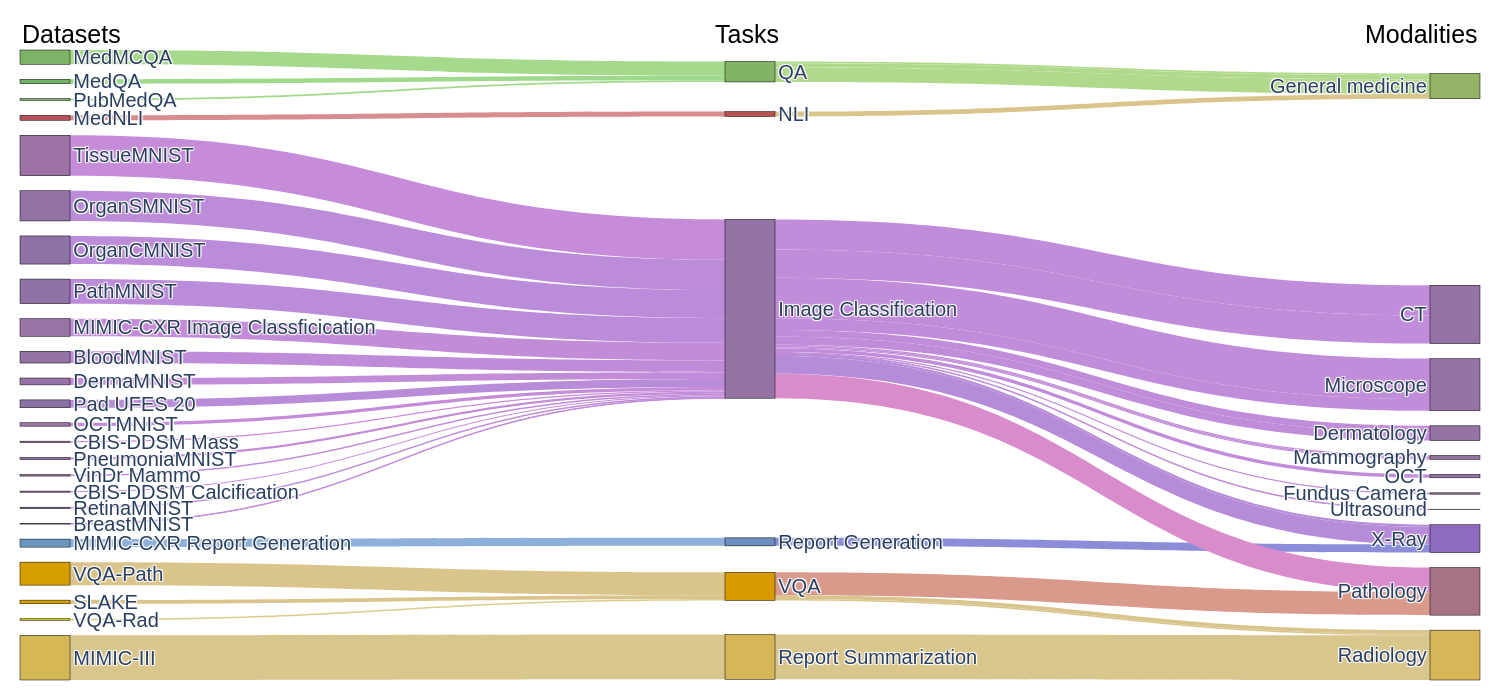
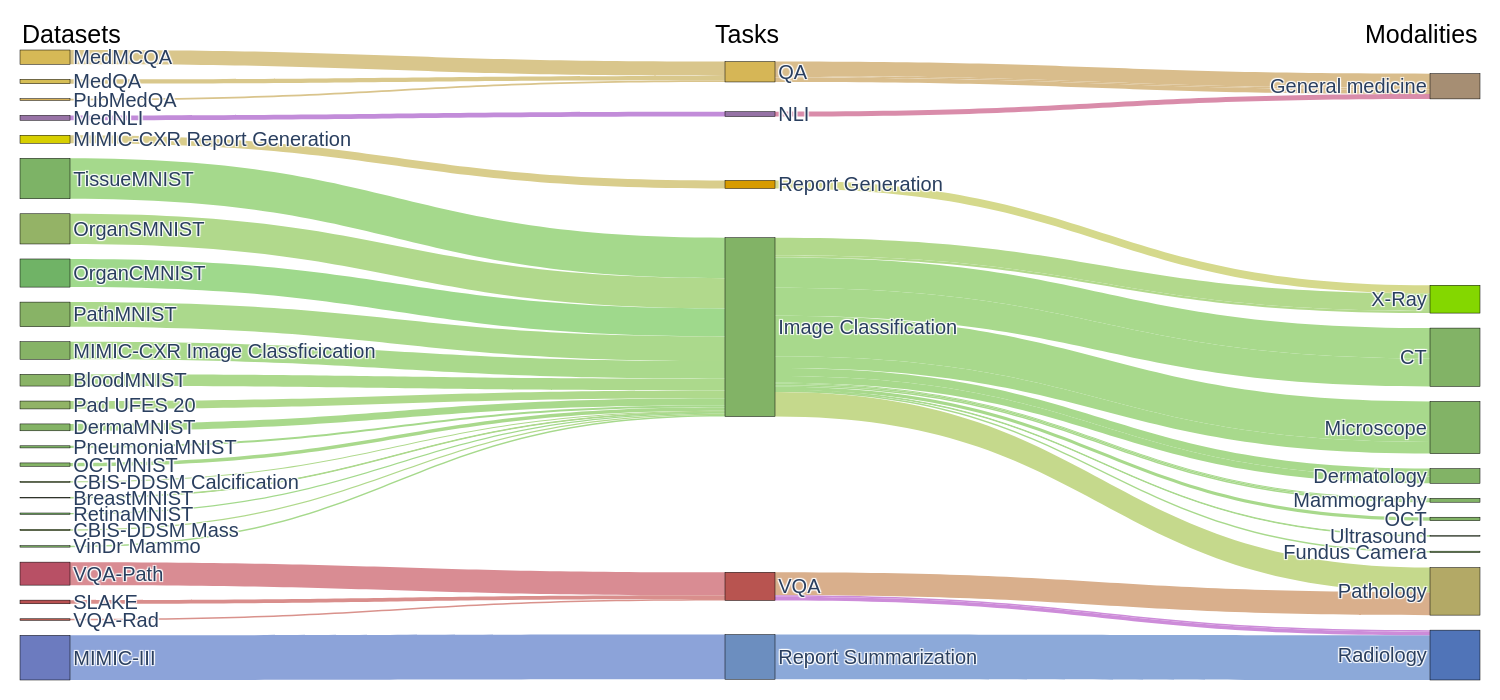
Github action tests

diff --git a/multimedeval/visualization.py b/multimedeval/visualization.py
@@ -8,7 +8,7 @@ class BenchmarkVisualizer:
     def __init__(self, datasets: list[Benchmark]) -> None:
         self.datasets = datasets
 
-        self.folderName = "figures"
+        self.folderName = "visualizations"
 
         # Create the folder if it doesn't exist
         Path(self.folderName).mkdir(parents=True, exist_ok=True)
@@ -278,72 +278,6 @@ class BenchmarkVisualizer:
         # Increase font size of the labels
 
         fig.write_image(Path(self.folderName, "sankey.png"), scale=1.0, width=1500, height=700)
-
-    def sankeyD3Blocks(self):
-        from d3blocks import D3Blocks
-        import random
-        from colour import Color
-
-        print("======================= Creating sankey diagram with D3Blocks =======================")
-
-        dfAsList = []
-        tasks = set()
-        modalities = set()
-
-        for dataset in self.datasets:
-            task = dataset.task.replace("_", " ")
-            # Add the link between the dataset and the task
-            dfAsList.append((dataset.taskName, task, len(dataset)))
-
-            # Add the link between the task and the modality
-            dfAsList.append((task, dataset.modality, len(dataset)))
-
-            tasks.add(task)
-            modalities.add(dataset.modality)
-
-        # Take colors from the G10 palette
-        nameToColor = {}
-        for idx, task in enumerate(tasks):
-            nameToColor[task] = (idx / len(tasks) + 0.5) % 1
-
-        for dataset in self.datasets:
-            # Sample a color based on the task of the dataset
-            taskColor = nameToColor[dataset.task.replace("_", " ")]
-
-            # Sample small variation of the color for the dataset
-            rangeColor = 1 / len(tasks) / 4
-            datasetColor = (taskColor + random.uniform(-rangeColor, rangeColor)) % 1
-            nameToColor[dataset.taskName] = datasetColor
-
-        for idx, modality in enumerate(modalities):
-            # Get all the tasks that have this modality
-            taskColors = []
-            taskWeights = []
-            for dataset in self.datasets:
-                if dataset.modality == modality:
-                    taskColors.append(nameToColor[dataset.task])
-                    taskWeights.append(len(dataset))
-
-            weighted_mean_angle = self._averageCircular(taskColors, taskWeights)
-
-            nameToColor[modality] = weighted_mean_angle
-
-        # Convert every color to hex
-        for name, color in nameToColor.items():
-            tempColor = Color(hsl=(color, 0.5, 0.4)).hex
-            nameToColor[name] = tempColor
-
-        df = pd.DataFrame(dfAsList, columns=["source", "target", "weight"])
-        print(df)
-
-        d3 = D3Blocks(chart="Sankey", frame=True)
-        
-        # Change the font
-        d3.set_node_properties(df, width=30, color=nameToColor)
-
-        d3.set_edge_properties(df, color="source-target", opacity=0.8)
-
-        d3.show(filepath="tempSankey.html", figsize=(1000, 700))
 
     def _importPlotly(self):
         try:

diff --git a/tests/test_loading_all.py b/tests/test_loading_all.py
@@ -73,7 +73,7 @@ class TestLoadingAll:
     def test_running_reportcomparison(self):
         evalParams = EvalParams(batch_size=128, fewshot=True, num_workers=0)
 
-        tasks = ["MIMIC-CXR Report Generation", "MIMIC-III"]
+        tasks = ["MIMIC-CXR Report Generation"]
         try:
             results = self.engine.eval(tasks, batcher, evalParams=evalParams)
         except:
@@ -82,35 +82,35 @@ class TestLoadingAll:
         for task in tasks:
             assert task in results
 
-    # @pytest.mark.order(7)
-    # def test_running_image_classification(self):
-    #     evalParams = EvalParams(batch_size=128, fewshot=True, num_workers=0)
+    @pytest.mark.order(7)
+    def test_running_image_classification(self):
+        evalParams = EvalParams(batch_size=128, fewshot=True, num_workers=0)
 
-    #     tasks = [
-    #         "MIMIC-CXR Image Classficication",
-    #         "VinDr Mammo",
-    #         "Pad UFES 20",
-    #         "CBIS-DDSM Mass",
-    #         "CBIS-DDSM Calcification",
-    #         "OCTMNIST",
-    #         "PathMNIST",
-    #         "PneumoniaMNIST",
-    #         "RetinaMNIST",
-    #         "BloodMNIST" "OrganCMNIST",
-    #         "DermaMNIST",
-    #         "BreastMNIST",
-    #         "TissueMNIST",
-    #         "OrganSMNIST",
-    #     ]
-    #     try:
-    #         results = self.engine.eval(
-    #             tasks,
-    #             batcher,
-    #             evalParams=evalParams,
-    #         )
-    #     except:
-    #         assert False
+        tasks = [
+            "MIMIC-CXR Image Classficication",
+            # "VinDr Mammo",
+            "Pad UFES 20",
+            "CBIS-DDSM Mass",
+            # "CBIS-DDSM Calcification",
+            "OCTMNIST",
+            # "PathMNIST",
+            # "PneumoniaMNIST",
+            # "RetinaMNIST",
+            # "BloodMNIST" "OrganCMNIST",
+            # "DermaMNIST",
+            # "BreastMNIST",
+            # "TissueMNIST",
+            # "OrganSMNIST",
+        ]
+        try:
+            results = self.engine.eval(
+                tasks,
+                batcher,
+                evalParams=evalParams,
+            )
+        except:
+            assert False
 
-    #     for task in tasks:
-    #         assert task in results
+        for task in tasks:
+            assert task in results
 

diff --git a/tests/test_image_classification.py b/tests/test_image_classification.py
@@ -1,11 +1,15 @@
 from multimedeval import MultiMedEval, SetupParams, EvalParams
 import json
+import os
+import pytest
 
 
 def batcher(prompts):
     return ["Dummy answer" for _ in range(len(prompts))]
 
+IN_GITHUB_ACTIONS = os.getenv("GITHUB_ACTIONS") == "true"
 
+@pytest.mark.skipif(IN_GITHUB_ACTIONS, reason="Test doesn't work in Github Actions.")
 def test_image_classification():
     engine = MultiMedEval()
     config = json.load(open("MedMD_config.json"))

diff --git a/tests/test_report_comparison.py b/tests/test_report_comparison.py
@@ -9,7 +9,6 @@ from sklearn.utils import resample
 logging.basicConfig(level=logging.INFO)
 
 
-
 def compute_kendall_tau(computed_scores, evaluator_scores):
     tau, _ = kendalltau(evaluator_scores, computed_scores)
 
@@ -168,8 +167,5 @@ def test_ReportComparison():
     # plt.savefig("scatter_plot.png")
 
 
-
-
 if __name__ == "__main__":
     test_ReportComparison()
-

diff --git a/tests/test_setup.py b/tests/test_setup.py
@@ -3,10 +3,13 @@ import json
 import logging
 import shutil
 import os
+import pytest
 
 logging.basicConfig(level=logging.INFO)
 
+IN_GITHUB_ACTIONS = os.getenv("GITHUB_ACTIONS") == "true"
 
+@pytest.mark.skipif(IN_GITHUB_ACTIONS, reason="Test doesn't work in Github Actions.")
 def test_setup():
 
     path = "/home/croyer/scratch/testSetupData"
